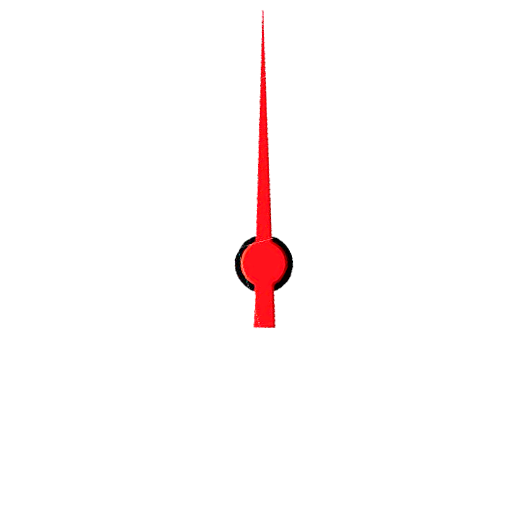
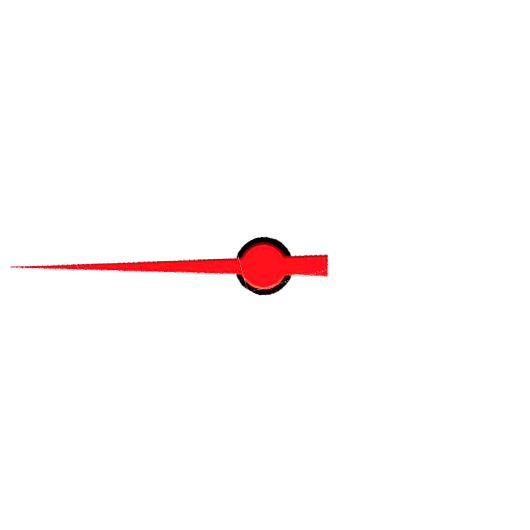
PDF

Changed region(s): [[0.0302, 0.0302, 0.634, 0.634]]

diff --git a/web/css/pdf5.css b/web/css/pdf5.css
@@ -118,7 +118,7 @@ hr.azul
     font-size: 10px;
     font-weight: bold;
     color: #3369b7;
-    padding: 7px 0px 0px 5px;
+    padding: 5px 0px 0px 2px;
     /*border: 1px solid;*/
 }
 .div-label2{
@@ -141,7 +141,8 @@ hr.azul
     color: #3369b7;
     text-align: left;
     font-size: 10px;
-    padding: 2px 0px;  
+    padding: 2px 0px 0px 1px;
+    margin-top: 2px;  
 }
 .div-linea
 {

diff --git a/views/ven-orden/body.php b/views/ven-orden/body.php
@@ -1,18 +1,20 @@
 <html>
-
+<?php 
+	$list=json_decode($model->ord_vehiculoExterior, true);
+	print_r($list ['Unidad de luces']);
+?>
 <body>
 <!--Logo-->
 <div style= "position: absolute; top: 16mm; left: 15mm">
 	<img src="var:donpolo" id= "polo" >
 </div>
 <!-- Imagen auto -->
-<div style= "position: absolute; top: 90.5mm; left: 66mm">
-	<img  width="54%" src="var:auto" id= "auto" >
+<div style= "position: absolute; top: 92mm; left: 66mm">
+	<img  width="53%" src="var:auto" id= "auto" >
 </div>
 <!-- linea del tanque -->
 <div class="linea">
-	<img  style="transform: rotate(45);" src="var:linea"  id= "linea" >
-	<?= print_r($model->ord_tanque);?>
+	<img  style="transform: rotate(<?= (($model->ord_tanque)*180);?>);" src="var:linea"  id= "linea" >
 </div>
 <!-- tanque de gasolina -->
 <div class="tanque">
@@ -21,7 +23,7 @@
 	<div class="px-12 azul bold">TANQUE DE GASOLINA</div>
 </div>
 <!-- Cuadro del folio -->
-<div id="cuadroFolio" class= "bordered px-16 azul">
+<div id="cuadroFolio" class= "bordered px-16 azul" style="color:red; font-size:3em; text-align: center; vertical-align: middle;">
 	<?= mb_strtoupper($model->ord_folio)?>
 </div>
 	<div class="borde">
@@ -98,8 +100,7 @@
 			<div style="width: 42.2mm ;" class="div-underline">&#8203;<?= mb_strtoupper($model->ord_kilometraje)?></div>
 		</div>
 		<!--   ********************** 2da  Parte Inventario del Vehiculo  ***********************     -->
-		<div class="azul px-14 bold">INVENTARIO DEL VEHICULO</div>
-
+		<div class="azul px-12 bold">INVENTARIO DEL VEHICULO</div>
 		<div style="width: 200mm; position: absolute;">
 			<!-- titulos -->
 			<div style="width: 60mm; float:left;"  class="div-label2 borde">EXTERIORES</div>
@@ -253,7 +254,7 @@
 		</div>
 		<!-- observaciones -->
 		<div style="width: 30mm ; padding: 0;" class="div-label">OBSERVACIONES:</div>
-		<div style="width: 145mm; padding: 0;" class="div-underline">&#8203;</div>
+		<div style="width: 145mm; padding: 0;" class="div-underline">&#8203;<?= mb_strtoupper($model->ord_observaciones)?></div>
 
 		<!-- titulos2 -->
 		<div style="width: 120mm; height: 5mm; float: right;">
@@ -352,10 +353,12 @@
 			<!-- problemas del vehiculo -->
 			<div style="width: 80mm; height: 40mm; float: left;">
 				<div class="px-14 azul bold" style="text-align: left;">PROBLEMAS DEL VEHICULO</div>
+				<div class="div-underline">&#8203;<?= mb_strtoupper($model->ord_problemas)?></div>
 			</div>
 			<!-- diagnostico tecnico -->
 			<div style="width: 80mm; height: 40mm; float: right;">
 				<div class="px-14 azul bold" style="text-align: left;">DIAGNOSTICO TECNICO</div>
+				<div class="div-underline">&#8203;<?= mb_strtoupper($model->ord_diagnostico)?></div>
 			</div>
 		</div>
 		<div style="width: 180mm; height: 20mm;">

diff --git a/controllers/VenOrdenController.php b/controllers/VenOrdenController.php
@@ -214,18 +214,19 @@ class VenOrdenController extends Controller
         //imagenes
         $mpdf->imageVars['donpolo' ] = file_get_contents('img/bluepolo.png');
         $mpdf->imageVars['logopolo'] = file_get_contents('img/logopolo_letra.png');
-        $mpdf->imageVars['auto'    ] = file_get_contents('img/auto.jpg');
         $mpdf->imageVars['fondoTan'] = file_get_contents('img/fondoTanque.png');
         $mpdf->imageVars['linea'   ] = file_get_contents('img/linea.png');
         $mpdf->imageVars['facebook'] = file_get_contents('img/facebook.png');
         $mpdf->imageVars['whats'   ] = file_get_contents('img/bluewa.png');
         
+        $mpdf->imageVars['auto'    ] = file_get_contents('img/wPaint/files/'.$id.".png");
+
+
         $pdf->cssFile = '@app/web/css/pdf5.css';
         /*$mpdf -> SetHTMLHeader($this->renderPartial('pdf_header',
             [ 'model' =>   $model, ]
         )); */
         $pdf->content = $this->renderPartial('body',[ 'model' =>$model]); 
-        $pdf->content .= '<hr>'. $pdf->content;
 
          return $pdf->render();
     }
